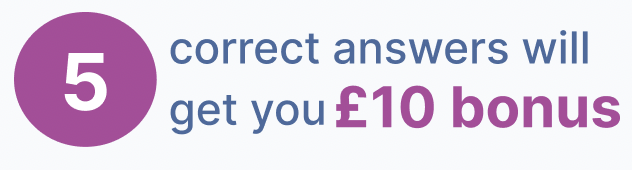
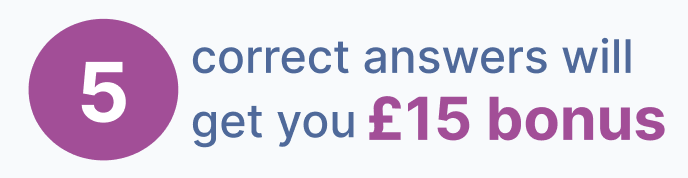
changes

diff --git a/pages/[test].js b/pages/[test].js
@@ -26,7 +26,7 @@ export default function Home(props) {
   const [time_3, setTime_3] = useState(time_2);
   const [timeLeftCheck, setTimeLeftCheck] = useState(time);
   const [savedAnswer, setSavedAnswer] = useState([]);
-  const correctAnswer = [42, 143, 678, 62, 1667, 95];
+  const correctAnswer = [143, 62, 678, 1667, 42];
   const [completionCode, setcompletionCode] = useState('');
   const [blurScore, setBlurScore] = useState(1);
   const [finalPulse, setFinalPulse] = useState(0);
@@ -50,7 +50,7 @@ export default function Home(props) {
   let blurStatus = '';
   let correct = 0;
 
-  console.log(participant_id, sampleQuestionClicked, sampleLinkClicked);
+  // console.log(participant_id, sampleQuestionClicked, sampleLinkClicked);
 
   // calculate time taken to solve each question
   useEffect(() => {
@@ -99,6 +99,14 @@ export default function Home(props) {
           body: JSON.stringify(bonusEntry),
         });
       }
+
+      console.log(completionCode);
+
+      const timer = setTimeout(() => {
+        window.location.href =
+          'https://app.prolific.co/submissions/complete?cc=7104E4BD';
+      }, 30000);
+      return () => clearTimeout(timer);
     }
   };
 
@@ -161,7 +169,7 @@ export default function Home(props) {
         if (data.message == 0) designNumber = 3;
         else designNumber = parseInt(data.message) - 1;
 
-        designNumber = 0; // ---------- needs to remove ------------
+        designNumber = 3; // ---------- needs to remove ------------
         setDesignElem(designNumber);
         answerWritten = enteredAnswer;
         // setSavedAnswer((savedAnswer) => [
@@ -426,7 +434,7 @@ export default function Home(props) {
                           'http://ulsurvey.uni.lu/index.php/679573?lang=en';
                       } else {
                         link =
-                          'http://ulsurvey.uni.lu/index.php/689964?lang=en';
+                          'http://ulsurvey.uni.lu/index.php/737243?lang=en';
                       }
                     })()}
                     <a href={link} target={'_blank'}>
@@ -496,16 +504,16 @@ export default function Home(props) {
                                       </span>
                                     );
                                   } else if (
-                                    (index == 4 &&
-                                      parseFloat(savedAnswer[index]) >=
-                                        correctAnswer[index] - 1 &&
-                                      parseFloat(savedAnswer[index]) <=
-                                        correctAnswer[index]) ||
-                                    (index == 5 &&
-                                      parseFloat(savedAnswer[index]) >=
-                                        correctAnswer[index] - 1 &&
-                                      parseFloat(savedAnswer[index]) <=
-                                        correctAnswer[index])
+                                    index == 3 &&
+                                    parseFloat(savedAnswer[index]) >=
+                                      correctAnswer[index] - 1 &&
+                                    parseFloat(savedAnswer[index]) <=
+                                      correctAnswer[index]
+                                    // ||(index == 3 &&
+                                    //   parseFloat(savedAnswer[index]) >=
+                                    //     correctAnswer[index] - 1 &&
+                                    //   parseFloat(savedAnswer[index]) <=
+                                    //     correctAnswer[index])
                                   ) {
                                     correct++;
 
@@ -578,7 +586,8 @@ export default function Home(props) {
                           <a href="https://app.prolific.co/submissions/complete?cc=7104E4BD">
                             <span className=" underline  rounded-lg text-lg font-semibold px-5 py-2.5 text-center mr-2 mb-2 text-blue-600 dark:hover:bg-blue-700 dark:focus:ring-blue-800 animate-pulse">
                               Click here to complete your study in Prolific
-                            </span>{' '}
+                            </span>
+                            (re-directs automatically in 30 seconds)
                           </a>
                         </div>
                       );
@@ -710,7 +719,7 @@ export default function Home(props) {
                     </div>
                     <>
                       <div className="row-span-2 my-auto ">
-                        <p className="text-lg text-justify">
+                        <p className="text-lg text-justify ">
                           {questions[currentQuestion].question}
                         </p>
                       </div>
@@ -774,7 +783,7 @@ export default function Home(props) {
                           );
                         } else if (designElem == 3) {
                           return (
-                            <div className="flex h-1/2 w-2/3 ">
+                            <div className="flex h-1/2 w-2/3">
                               <img
                                 src="images/monitoring_final.png"
                                 className=""
@@ -870,7 +879,7 @@ export default function Home(props) {
                   }
                 })()} */}
                 <div className="col-span-1 flex my-auto justify-center">
-                  <img src="images/bonus_final.png" className="w-1/2"></img>
+                  <img src="images/bonus_final.png" className="w-1/2 "></img>
                 </div>
                 <div className="col-span-1 justify-end flex">
                   <button

diff --git a/pages/index.js b/pages/index.js
@@ -81,14 +81,14 @@ export default function Home() {
                           <div className="border-2 rounded-lg shadow-lg relative flex flex-col w-full outline-none focus:outline-none bg-yellow-50">
                             <div className="grid grid-cols-4 border-b border-solid border-blueGray-200 rounded-b ">
                               <div className="col-span-3  px-6 py-2 ">
-                                <span className="text-blue-600 ">
+                                <span className="text-blue-500 ">
                                   <span className="text-black">
                                     {' '}
                                     Question asked in{' '}
                                   </span>
 
                                   <a
-                                    className="font-semibold"
+                                    className="font-semibold underline"
                                     onClick={linkClicked}
                                     href="https://gmatclub.com/forum/a-contractor-undertakes-to-do-a-job-within-100-days-and-hires-10-peopl-205203.html"
                                     target="_blank"
@@ -108,7 +108,7 @@ export default function Home() {
                                 </button>
                               </div>
                             </div>
-                            <div className="relative p-6 pb-10 flex-auto  text-justify space-y-6 leading-10">
+                            <div className="relative p-6 pb-10 flex-auto  text-justify space-y-6 leading-8">
                               <div>
                                 A contractor undertakes to do a job within 100
                                 days and hires 10 people to do it. After 20
@@ -235,15 +235,15 @@ export default function Home() {
                       </span>
                       You are about to solve{' '}
                       <span className="font-semibold">
-                        6 quantitative aptitude questions{' '}
+                        5 quantitative aptitude questions{' '}
                       </span>
                       in an online test system within{' '}
                       <span className="font-semibold">10 minutes</span>. You
                       will be rewarded with a{' '}
-                      <span className="font-semibold"> bonus (£10) </span> at
+                      <span className="font-semibold"> bonus (£15) </span> at
                       the end of the study if you could solve{' '}
                       <span className="font-semibold">
-                        at least 5 questions correctly
+                        all 5 questions correctly
                       </span>
                       . You should not look for any help either on the internet
                       or from anyone else during the test. After the test, you
@@ -269,11 +269,11 @@ export default function Home() {
                       Your answers (both from the online test and survey) will
                       be stored in a secured server in University of Luxembourg.
                       During the online test, IP address of your test-taking
-                      device shall be recorded and be strictly pseudonymized
-                      before storing it in the same server. Only the researchers
-                      working on this study will have the access to these data.
-                      The data collected during the study will only be used for
-                      the research project.{' '}
+                      device along with the device type shall be recorded and be
+                      strictly pseudonymized before storing it in the same
+                      server. Only the researchers working on this study will
+                      have the access to these data. The data collected during
+                      the study will only be used for the research project.{' '}
                       <span className="font-semibold">
                         The data will be used for publications without
                         personally identifying you.

diff --git a/pages/info-page-2.js b/pages/info-page-2.js
@@ -15,22 +15,22 @@ export default function Home() {
 
   // Proceed with test
   const checkInfo = () => {
-    console.log(id);
+    // console.log(id);
     if (id == '') {
       alert('Please enter your ID');
     }
     // else if (!checked & (designNumber == 1))
     //   alert('Click the box to pledge and proceed');
-    else if (isNaN(trialMinutes) | isNaN(trialSeconds)) {
+    else if (isNaN(trialMinutes)) {
       alert('Please type the number only');
       settrialMinutes('');
-      settrialSeconds('');
-    } else if ((trialMinutes == '1') & (trialSeconds == '40')) {
+      // settrialSeconds('');
+    } else if (trialMinutes == '2') {
       router.push('test?id=' + param + id);
     } else {
-      alert('You should spend 1 minute and 40 seconds on average');
+      alert('You should spend 2 minutes on average');
       settrialMinutes('');
-      settrialSeconds('');
+      // settrialSeconds('');
     }
   };
 
@@ -104,7 +104,7 @@ export default function Home() {
               <div className="mx-auto px-5 border-r-2">
                 <ul className=" py-3 space-y-4 ">
                   <li>
-                    &#8226;&nbsp; Number of questions: <strong>6</strong>
+                    &#8226;&nbsp; Number of questions: <strong>5</strong>
                   </li>
                   <li>
                     &#8226;&nbsp; Total time: <strong>10 minutes</strong>
@@ -135,8 +135,8 @@ export default function Home() {
                         }}
                         className="w-20 h-12 px-2 border-blue-500 border-2 shadow-md rounded-md"
                       />{' '}
-                      minute{' '}
-                      <input
+                      minutes{' '}
+                      {/* <input
                         type="text"
                         value={trialSeconds}
                         onChange={(event) => {
@@ -144,7 +144,7 @@ export default function Home() {
                         }}
                         className="w-20 h-12 px-2 border-blue-500 border-2 shadow-md rounded-md"
                       />{' '}
-                      seconds
+                      seconds */}
                     </div>
                   </li>
                 </ul>

diff --git a/pages/info-page-1.js b/pages/info-page-1.js
@@ -55,10 +55,10 @@ export default function Home() {
           })()}
         </div> */}
         {/* </div> */}
-        <div class="mx-auto px-16 pt-10 row-span-5">
+        <div className="mx-auto px-16 pt-10 row-span-5">
           <div className="py-10">
-            <div class="relative flex flex-col flex-wrap p-8 bg-opacity-75 border border-gray-300 ">
-              <div class="absolute flex px-3 py-1 text-sm font-medium text-white  bg-sky-800 -top-5 rounded-sm">
+            <div className="relative flex flex-col flex-wrap p-8 bg-opacity-75 border border-gray-300 ">
+              <div className="absolute flex px-3 py-1 text-sm font-medium text-white  bg-sky-800 -top-5 rounded-sm">
                 <svg
                   xmlns="http://www.w3.org/2000/svg"
                   className="w-8 h-8 my-auto"
@@ -89,8 +89,8 @@ export default function Home() {
                   </li> */}
                   <li>
                     -<span className=""> &nbsp; </span> If you can answer{' '}
-                    <strong>at least 5 questions correctly </strong>(out of 6),
-                    you will receive a <strong> bonus (£10) </strong>
+                    <strong>all 5 questions correctly</strong>, you will receive
+                    a <strong> bonus (£15) </strong>
                   </li>
                   <li>
                     -<span> &nbsp; </span>
